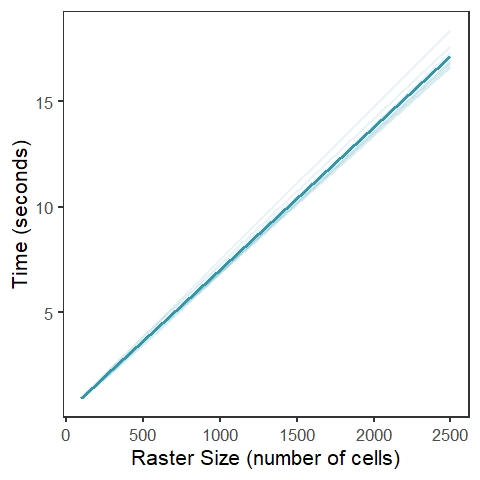
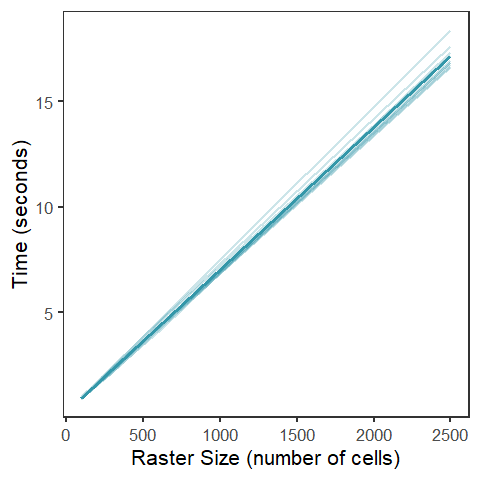
change "locus" to "site" in docs

Changed region(s): [[0.25, 0.0625, 0.9375, 0.75], [0.2188, 0.75, 0.25, 0.7812], [0.1875, 0.7812, 0.2188, 0.8125]]

diff --git a/paperex/simex/runtime_notebook.md b/paperex/simex/runtime_notebook.md
@@ -17,7 +17,7 @@ source(here(wdir, "runtime_functions.R"))
 # Creating dataset
 
 ``` r
-# load middle earth example just to get a vcc to modify
+# load middle earth example just to get a vcf to modify
 load_middle_earth_ex(quiet = TRUE)
 
 # set dimensions of raster
@@ -29,7 +29,7 @@ lyr <- raster(m)
 pts <- rasterToPoints(lyr)
 coords <- data.frame(pts[,c("x","y")])
 
-# create simple vcf with number of individuals = number of coords and only one locus
+# create simple vcf with number of individuals = number of coords and only one site
 vcf <- lotr_vcf[rep(1, 1), c(1, rep(2, nrow(coords)))]
 
 # visualize even sampling
@@ -70,7 +70,7 @@ resw_mean <- resw %>%
 
 plotw <- ggplot() +
   geom_line(data = resw, aes(x = wsize, y = time, group = it), 
-            col = mako(1, begin = 0.8), alpha = 0.15, lwd = 1) +
+            col = mako(1, begin = 0.8), alpha = 0.25, lwd = 1) +
   geom_line(data = resw_mean, aes(x = wsize, y = time), 
             col = mako(1, begin = 0.8), alpha = 1, lwd = 1.1) +
   theme_bw(base_size = 16) + 
@@ -90,7 +90,7 @@ resf_mean <- resf %>%
 
 (plotf <- ggplot() +
   geom_line(data = resf, aes(x = ncell, y = time, group = it), 
-            col = mako(1, begin = 0.6), alpha = 0.1, lwd = 1) +
+            col = mako(1, begin = 0.6), alpha = 0.25, lwd = 1) +
   geom_line(data = resf_mean, aes(x = ncell, y = time),
             col = mako(1, begin = 0.6), alpha = 1, lwd = 1.1) +
   theme_bw(base_size = 16) + 
